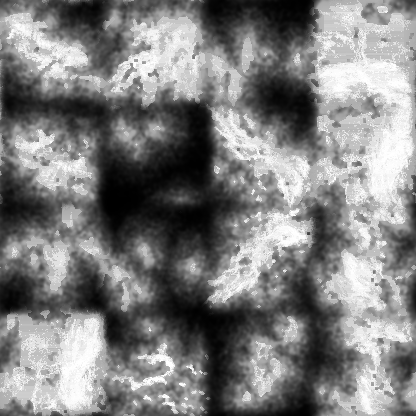
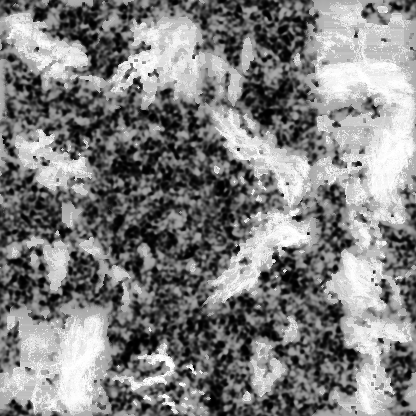
Radar Sandbox: storm brush paints thunderstorms like rain
The Storm tool's default mode now works like the Rain brush: it paints
rain where you brush (irregular footprint, visible immediately) plus a
thunderstorm field that turns the strongest parts of the real rain
pattern into convective cores (capped near 60 dBZ) and makes lightning
over heavy rain. The storm area drifts and evolves with Auto weather
like painted rain, passing its storm character to child pockets.
Supercell mode still drops a single supercell on click.

Also: rain atlases no longer contain deep 'never rains' holes (distance
term capped), which made painted rain and lightning areas render dry.

Claude-Session: https://claude.ai/code/session_01DKpUR6xtcj9CFzPuhxEyFT

diff --git a/docs/radar-sandbox/js/sim.js b/docs/radar-sandbox/js/sim.js
@@ -119,6 +119,7 @@ export class Sim {
     // and moisture whose size, shape and lifetime follow measured radar
     // statistics. pk = their lift (m/s), pkn = their 0..1 footprint.
     this.pockets = []; this.pk = F(); this.pkn = F(); this.pgen = F();
+    this.TS = F(); // thunderstorm character of painted rain (0..1): convective cores + lightning
     this.pn = makeSimplex(seed * 7 + 3); this.mn = makeSimplex(seed * 13 + 5);
     this.pox = 0; this.poy = 0;
     this.Xk = new Float32Array(NX); this.Yk = new Float32Array(NY);
@@ -483,12 +484,14 @@ export class Sim {
     this._advect(this.out, this.u, this.v, dt);
     this._advect(this.C, this.us, this.vs, dt);
     this._advect(this.Fz, this.us, this.vs, dt);
+    this._advect(this.TS, this.us, this.vs, dt);
     this._advect(this.M, this.us, this.vs, dt);
     for (const f of [this.tAx, this.tAy, this.tBx, this.tBy]) this._advect(f, this.us, this.vs, dt);
     this._texEdges();
     const [su, sv] = windFrom(this.P.steerDir, this.P.steerSpd);
     this.pox += su * 0.8 * dt / 1000; this.poy += sv * 0.8 * dt / 1000;
     this._physics(dt);
+    this._stormLightning(dt);
     this._convection(dt);
     this._systems(dt);
     this.time += dt * 1000;
@@ -563,7 +566,32 @@ export class Sim {
         this.acc[k] += pr;
         if (R > 0.05) this.T[k] -= R * dt / 3600 * 0.15;
         this.Fz[k] *= fDecay;
+        this.TS[k] *= Math.exp(-dt / 5400);
         this.out[k] *= oDecay;
+      }
+    }
+  }
+
+  // Lightning over painted storm areas: flash rate rises with the
+  // thunderstorm factor and the rain rate (heavier rain = more charge).
+  _stormLightning(dt) {
+    const { NX, NY } = this;
+    for (let j = 0; j < NY; j++) {
+      const A = this.dx[j] * this.dy[j] / 1e6;
+      for (let i = 0; i < NX; i++) {
+        const k = j * NX + i, ts = this.TS[k];
+        if (ts < 0.15) continue;
+        const R = this.R[k] + this.Rc[k];
+        if (R < 1.5) continue;
+        let lam = ts * Math.min(2, (R - 1.5) / 8) * A * 0.004 * dt / 60;
+        while (lam > 0) {
+          if (this.rng() < Math.min(1, lam)) {
+            const la = this.lat[j] + (this.rng() - 0.5) * (this.dy[j] / 111320);
+            const lo = this.lon[i] + (this.rng() - 0.5) * (this.dx[j] / (111320 * Math.cos(this.lat[j] * D2R)));
+            this.strikes.push({ lat: la, lon: lo, t: this.time + this.rng() * dt * 1000, cg: this.rng() < 0.3 });
+          }
+          lam -= 1;
+        }
       }
     }
   }
@@ -584,7 +612,7 @@ export class Sim {
       th: Math.atan2(sv, su) + g() * 0.35,
       life: o.life ?? clamp(2400 * Math.sqrt(area / 100), 1800, 6 * 3600),
       lift: o.lift ?? clamp(0.32 * Math.exp(0.45 * g()), 0.1, 0.9),
-      seed: r() * 1000, gen: o.gen ?? 0, born: 0,
+      seed: r() * 1000, gen: o.gen ?? 0, born: 0, storm: !!o.storm,
     };
     // Family tree: ~1.3 children per generation, slowly weakening, at least
     // one for the first generations, so painted rain lives for many hours.
@@ -614,7 +642,7 @@ export class Sim {
         const ang = q.th + side + (this.rng() - 0.5) * 0.8, d = R0 * (0.9 + 0.6 * this.rng());
         const g = Math.sqrt(-2 * Math.log(this.rng() + 1e-9)) * Math.cos(2 * Math.PI * this.rng());
         this.addPocket(q.lat + d * Math.sin(ang) / 111.32, q.lon + d * Math.cos(ang) / (111.32 * Math.cos(q.lat * D2R)),
-          { gen: q.gen + 1, area: clamp(q.area * 0.85 * Math.exp(0.4 * g), 25, 3000), lift: clamp(q.lift * (0.92 + 0.12 * this.rng()), 0.08, 0.75) });
+          { gen: q.gen + 1, storm: q.storm, area: clamp(q.area * 0.85 * Math.exp(0.4 * g), 25, 3000), lift: clamp(q.lift * (0.92 + 0.12 * this.rng()), 0.08, 0.75) });
       }
       const env = a < 0.3 ? Math.sin(Math.PI / 2 * a / 0.3) ** 2 : a < 0.6 ? 1 : Math.cos(Math.PI / 2 * Math.min(1, (a - 0.6) / 0.4)) ** 2;
       if (!inGrid || env <= 0) continue;
@@ -633,6 +661,7 @@ export class Sim {
           const w = Math.exp(-1.6 * d2) * env, k = j * NX + i;
           this.pk[k] += q.lift * w;
           if (w > this.pkn[k]) { this.pkn[k] = w; this.pgen[k] = q.gen; }
+          if (q.storm) this.TS[k] = Math.max(this.TS[k], Math.min(1, 1.3 * w) * Math.pow(0.93, q.gen));
           this.M[k] += (0.92 - this.M[k]) * Math.min(1, dt / 1800) * w;
         }
       }
@@ -930,7 +959,20 @@ export class Sim {
     }
   }
 
-  paintRain(lat, lon, km, strength) {
+  // Storm brush: paints rain like the Rain tool, but convective: heavier
+  // fallout, cores and lightning over the painted area (TS field).
+  paintStorm(lat, lon, km, strength) {
+    this.paintRain(lat, lon, km, strength * 1.5, true);
+    const so = this.strokeSeed ?? 0, L = Math.max(8, km * 0.6);
+    this._brush(lat, lon, km, (k, w, j) => {
+      const i = k - j * this.NX;
+      const nz = 0.5 + 0.5 * fbm(this.mn, this.Xk[i] / L + so, this.Yk[j] / L - so, 3);
+      w *= clamp(1.8 * nz - 0.35, 0, 1.2);
+      if (w > 0) this.TS[k] = Math.min(1, this.TS[k] + 0.6 * strength * w);
+    });
+  }
+
+  paintRain(lat, lon, km, strength, storm = false) {
     // Irregular footprint (fixed per stroke) so painted rain never takes the
     // brush's round shape; rain then builds up over the next minutes
     // through the normal physics instead of appearing instantly.
@@ -942,6 +984,7 @@ export class Sim {
       if (w <= 0) return;
       this.Fz[k] = Math.min(1.2, this.Fz[k] + 0.12 * strength * w);
       this.C[k] = Math.min(6, this.C[k] + 0.18 * strength * w);
+      this.R[k] = Math.max(this.R[k], Math.min(storm ? 7 : 6, this.C[k] * 2.5) * Math.min(1, w)); // visible right away
       this.M[k] += (0.97 - this.M[k]) * Math.min(1, 0.5 * w);
       const qs = qsat(this.T[k]);
       this.q[k] += (0.95 * qs - this.q[k]) * Math.min(1, 0.4 * w);
@@ -949,7 +992,7 @@ export class Sim {
     // Register the painted area as a parent pocket so auto weather can evolve it.
     const cl = Math.cos(lat * D2R);
     const near = this.pockets.some(q => q.gen === 0 && Math.hypot((q.lat - lat) * 111.32, (q.lon - lon) * 111.32 * cl) < km * 0.7);
-    if (!near) this.addPocket(lat, lon, { gen: 0, area: Math.PI * (km * 0.75) ** 2, lift: 0.35, life: 2.5 * 3600 });
+    if (!near) this.addPocket(lat, lon, { gen: 0, storm, area: Math.PI * (km * 0.75) ** 2, lift: storm ? 0.5 : 0.35, life: 2.5 * 3600 });
   }
   paintMoisture(lat, lon, km, sign) {
     this._brush(lat, lon, km, (k, w) => {
@@ -963,7 +1006,7 @@ export class Sim {
   }
   erase(lat, lon, km) {
     this._brush(lat, lon, km, (k, w) => {
-      this.C[k] *= 1 - w; this.Fz[k] *= 1 - w; this.R[k] *= 1 - w; this.Rc[k] *= 1 - w; this.out[k] *= 1 - w;
+      this.C[k] *= 1 - w; this.Fz[k] *= 1 - w; this.TS[k] *= 1 - w; this.R[k] *= 1 - w; this.Rc[k] *= 1 - w; this.out[k] *= 1 - w;
     });
     const cl = Math.cos(lat * D2R), near = (la, lo) => Math.hypot((la - lat) * 111.32, (lo - lon) * 111.32 * cl) < km;
     this.cells = this.cells.filter(c => !near(c.lat, c.lon));
@@ -1045,7 +1088,7 @@ export class Sim {
   snapshot() {
     return {
       time: this.time,
-      f: [this.T, this.q, this.C, this.Fz, this.acc, this.out, this.anvil, this.R, this.Rc, this.M, this.tAx, this.tAy, this.tBx, this.tBy].map(a => new Float32Array(a)),
+      f: [this.T, this.q, this.C, this.Fz, this.acc, this.out, this.anvil, this.R, this.Rc, this.M, this.tAx, this.tAy, this.tBx, this.tBy, this.TS].map(a => new Float32Array(a)),
       pox: this.pox, poy: this.poy, texOff: { A: this.texOff.A.slice(), B: this.texOff.B.slice() }, phase: this._phase,
       texDir: { A: this.texDir.A.slice(), B: this.texDir.B.slice() },
       cells: this.cells.map(c => ({ ...c })),
@@ -1056,7 +1099,7 @@ export class Sim {
   }
   restore(s) {
     this.time = s.time;
-    [this.T, this.q, this.C, this.Fz, this.acc, this.out, this.anvil, this.R, this.Rc, this.M, this.tAx, this.tAy, this.tBx, this.tBy].forEach((a, i) => a.set(s.f[i]));
+    [this.T, this.q, this.C, this.Fz, this.acc, this.out, this.anvil, this.R, this.Rc, this.M, this.tAx, this.tAy, this.tBx, this.tBy, this.TS].forEach((a, i) => { if (s.f[i]) a.set(s.f[i]); });
     this.pox = s.pox; this.poy = s.poy; this.texOff = { A: s.texOff.A.slice(), B: s.texOff.B.slice() }; this._phase = s.phase;
     this.texDir = { A: s.texDir.A.slice(), B: s.texDir.B.slice() };
     this.cells = s.cells.map(c => ({ ...c }));
@@ -1092,6 +1135,7 @@ export class Sim {
       this.out[k] = old.sample(old.out, gx, gy);
       this.anvil[k] = old.sample(old.anvil, gx, gy);
       this.M[k] = old.sample(old.M, gx, gy);
+      this.TS[k] = old.sample(old.TS, gx, gy) * wOld;
       if (wOld < 1) {
         const f = [this.T, this.q, this.C, this.Fz, this.acc, this.out, this.anvil, this.M];
         for (let n = 0; n < f.length; n++) f[n][k] = keep[n] + (f[n][k] - keep[n]) * wOld;

diff --git a/docs/radar-sandbox/js/main.js b/docs/radar-sandbox/js/main.js
@@ -32,7 +32,7 @@ const MODES = [
 const TOOLS = [
   { key: 'move', icon: '✋', label: 'Drag', opts: ['brush'], hint: 'Grab a storm or an L/H centre and move it. Drag empty space to push rain, clouds and air masses around.' },
   { key: 'rain', icon: '🌧', label: 'Rain', opts: ['brush', 'intensity'], hint: 'Paint lift and moisture: a rain area that drifts with the steering wind and fades once its forcing decays (~3 h).' },
-  { key: 'cell', icon: '⛈', label: 'Storm', opts: ['brush', 'intensity', 'celltype'], hint: 'Click to drop one thunderstorm, or hold and drag to paint storms across the brush (spaced like real cells). Strength nudges peak reflectivity; CAPE and shear decide how long they live.' },
+  { key: 'cell', icon: '⛈', label: 'Storm', opts: ['brush', 'intensity', 'celltype'], hint: 'Paint thunderstorms like rain: heavy rain with convective cores and lightning appears where you brush, then drifts and evolves. With Supercell selected, a click drops one supercell instead.' },
   { key: 'line', icon: '〰', label: 'Squall', opts: [], hint: 'Drag a line of storms. It propagates forward and rebuilds itself while there is CAPE ahead of it.' },
   { key: 'low', icon: 'L', label: 'Low', opts: ['intensity'], hint: 'Press at the centre and drag outward to size the low. Strength = depth (3–30 hPa). Lows drift with the steering wind.' },
   { key: 'high', icon: 'H', label: 'High', opts: ['intensity'], hint: 'Press at the centre and drag outward to size the high. Strength = intensity (3–30 hPa).' },
@@ -842,10 +842,14 @@ function setupPointer() {
       lastPaint = performance.now();
       applyPaint(0.12);
       paintLoop = requestAnimationFrame(paintTick);
-    } else if (t === 'cell') {
+    } else if (t === 'cell' && state.cellType === 'super') {
       dropStorm(lat, lon);
+      commitEdit();
+    } else if (t === 'cell') {
       drag = { kind: 'paint', at: { lat, lon } };
+      sim.strokeSeed = Math.random() * 1000;
       lastPaint = performance.now();
+      applyPaint(0.12);
       paintLoop = requestAnimationFrame(paintTick);
     } else if (t === 'radar') {
       state.customSite = { name: 'Custom radar', short: 'Custom', lat, lon, rangeKm: 240 };
@@ -920,19 +924,7 @@ function applyPaint(dt) {
   else if (t === 'moist') sim.paintMoisture(lat, lon, km, state.sign * dt * 3);
   else if (t === 'heat') sim.paintHeat(lat, lon, km, state.sign * dt * 3);
   else if (t === 'erase') sim.erase(lat, lon, km);
-  else if (t === 'cell') {
-    // Storm brush: try random spots in the brush and keep those far enough
-    // from other storms (real cells sit ~2-3 core diameters apart).
-    let tries = dt * (4 + km / 6);
-    while (tries > 0) {
-      if (Math.random() < Math.min(1, tries)) {
-        const rr = km * Math.sqrt(Math.random()), a = Math.random() * 2 * Math.PI;
-        const la = lat + rr * Math.sin(a) / 111.32, lo = lon + rr * Math.cos(a) / (111.32 * Math.cos(lat * D2R));
-        dropStorm(la, lo);
-      }
-      tries -= 1;
-    }
-  }
+  else if (t === 'cell') sim.paintStorm(lat, lon, km, state.intensity / 5 * dt * 4);
   const now = performance.now();
   if (now - lastDiag > 250) { sim.diagnose(); lastDiag = now; }
   dirty = true;

diff --git a/docs/radar-sandbox/js/radar.js b/docs/radar-sandbox/js/radar.js
@@ -185,14 +185,21 @@ export class Raster {
         const u = clamp(0.5 + cz * wN, 0, 1);
         env = 0.2 + 1.6 * u * u;
       }
+      const tsx = bil(sim.TS);
+      if (tsx > 0.1) env = Math.max(env, 0.6 + 0.6 * tsx); // storm areas always show where lightning is
       const f = wetFraction(r * env);
       if (a < 1 - f) continue;
       // Real wet-pixel dBZ distribution, shifted by how heavy the rain is.
       const v = Math.min(0.985, (a - (1 - f)) / Math.max(f, F0));
-      const d = (ATLAS.rainQ ? realDbz(v) : 8 + 30 * v) + 4 * Math.log10(Math.max(r * env, 0.05) / 1.5);
+      let d = (ATLAS.rainQ ? realDbz(v) : 8 + 30 * v) + 4 * Math.log10(Math.max(r * env, 0.05) / 1.5);
+      // Thunderstorm areas: the strongest parts of the real pattern become
+      // convective cores (45-60 dBZ) with sharp gradients.
+      const ts = tsx;
+      if (ts > 0.05) d += ts * (2 + 20 * Math.pow(Math.max(0, v - 0.55) / 0.45, 2));
+      if (d > 58) d = 58 + 4 * Math.tanh((d - 58) / 6); // real storm cores top out near 60 dBZ
       if (d < 4) continue;
       zlin[p] = Math.pow(10, d / 10);
-      top[p] = clamp(this.elev[p] / 1000 + T[k] / 6.5 + 2.2 + 2 * v, 2, 9);
+      top[p] = clamp(this.elev[p] / 1000 + T[k] / 6.5 + 2.2 + 2 * v + 6 * bil(sim.TS) * v, 2, 14);
     }
     this._cells(sim);
     const dbz = this.dbz;

diff --git a/docs/radar-sandbox/index.html b/docs/radar-sandbox/index.html
@@ -27,7 +27,7 @@
         <label class="row" id="optBrush"><span>Brush</span><input type="range" id="brush" min="3" max="250" value="30"><output id="brushOut"></output></label>
         <label class="row" id="optIntensity"><span>Strength</span><input type="range" id="intensity" min="1" max="10" value="5"><output id="intensityOut"></output></label>
         <div class="row seg" id="optCellType">
-          <button data-ct="single" class="on">Single</button><button data-ct="multi">Multicell</button><button data-ct="super">Supercell</button>
+          <button data-ct="single" class="on">Paint</button><button data-ct="super">Supercell</button>
         </div>
         <div class="row seg" id="optSign"><button data-sign="1" class="on">＋ Add</button><button data-sign="-1">－ Remove</button></div>
         <p class="hint" id="toolHint"></p>

diff --git a/docs/radar-sandbox/style.css b/docs/radar-sandbox/style.css
@@ -40,7 +40,7 @@ input[type=range] { accent-color: var(--accent); min-width: 0; }
 .row output { text-align: right; font-variant-numeric: tabular-nums; color: var(--text); font-size: 12px; }
 .row select, .row input[type=datetime-local] { grid-column: 2 / 4; }
 .row.seg { grid-template-columns: repeat(3, 1fr); gap: 4px; }
-.row.seg#optSign { grid-template-columns: 1fr 1fr; }
+.row.seg#optSign, .row.seg#optCellType { grid-template-columns: 1fr 1fr; }
 .row.seg button { padding: 4px 2px; font-size: 11.5px; }
 .hint { margin: 2px 0 0; color: var(--muted); font-size: 11.5px; }
 .steer { display: grid; grid-template-columns: 120px 1fr; gap: 10px; align-items: center; margin-bottom: 8px; }

diff --git a/docs/radar-sandbox/README.md b/docs/radar-sandbox/README.md
@@ -29,7 +29,7 @@ echo tops.
 |---|---|
 | Drag | Move storms and L/H centres. Drag empty space to push rain, clouds and air masses. |
 | Rain | Paints lift and moisture. The rain area drifts with the steering wind and fades once its forcing decays (~3 h). |
-| Storm | Click drops one storm; hold and drag to paint storms across the brush, spaced like real cells (~9 km single, ~12 km multicell, ~30 km supercell). Choose single, multicell or supercell (right-mover with hook echo). Storms you place live their full life cycle even in stable air, and placed multicells keep regenerating for ~3 h. |
+| Storm | **Paint** (default): brush thunderstorms exactly like rain. Heavy rain with convective cores (up to ~60 dBZ) and lightning appears where you brush, then drifts and evolves with Auto weather like painted rain. **Supercell**: a click drops one supercell (hook echo, holds position ~25 min, then moves off). |
 | Squall | A line of storms that propagates forward and rebuilds itself. |
 | Low / High | Press at the centre, drag outward for size. Strength sets the depth. |
 | Cold / warm front | Temperature step plus a lift band. A cold front fires a squall line when there is CAPE. |
